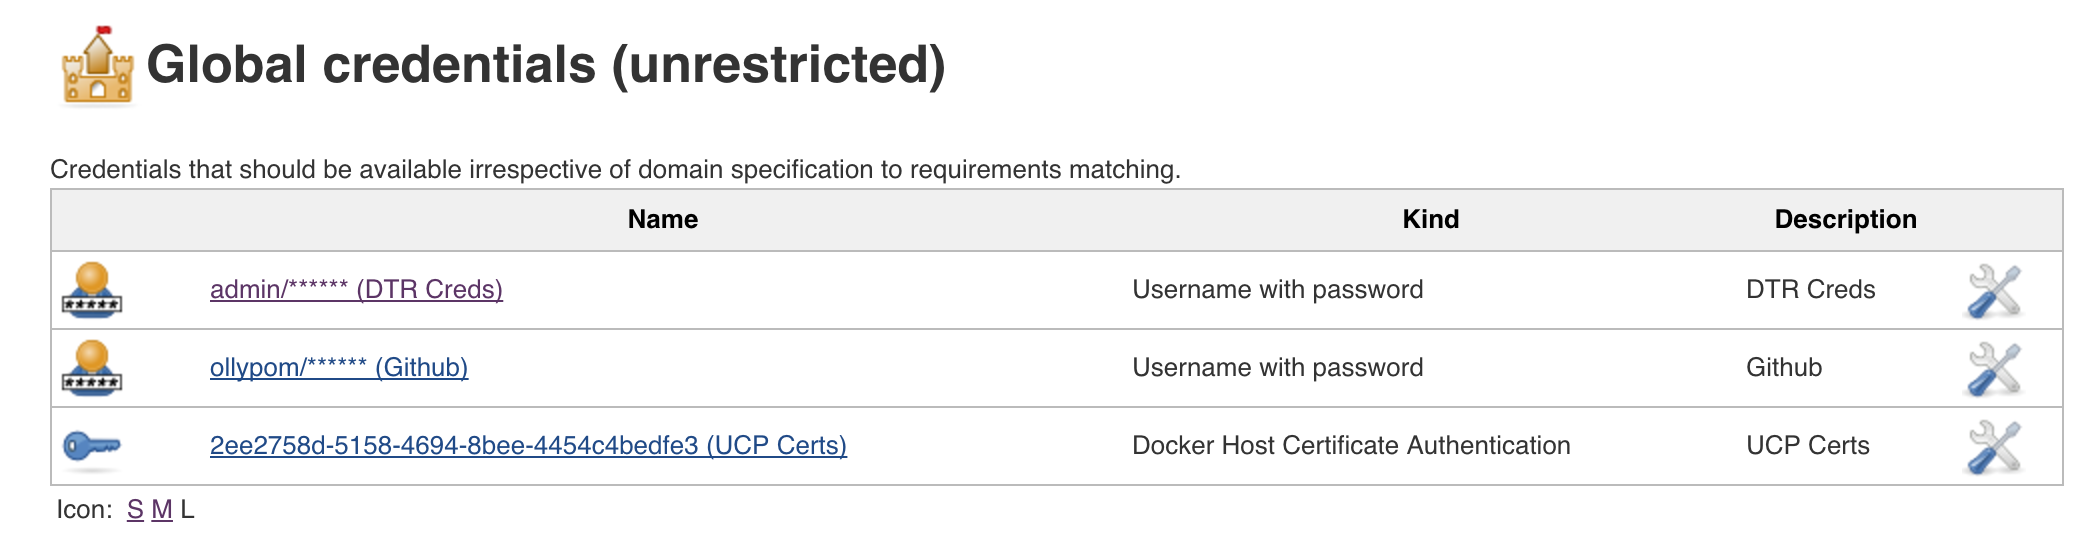
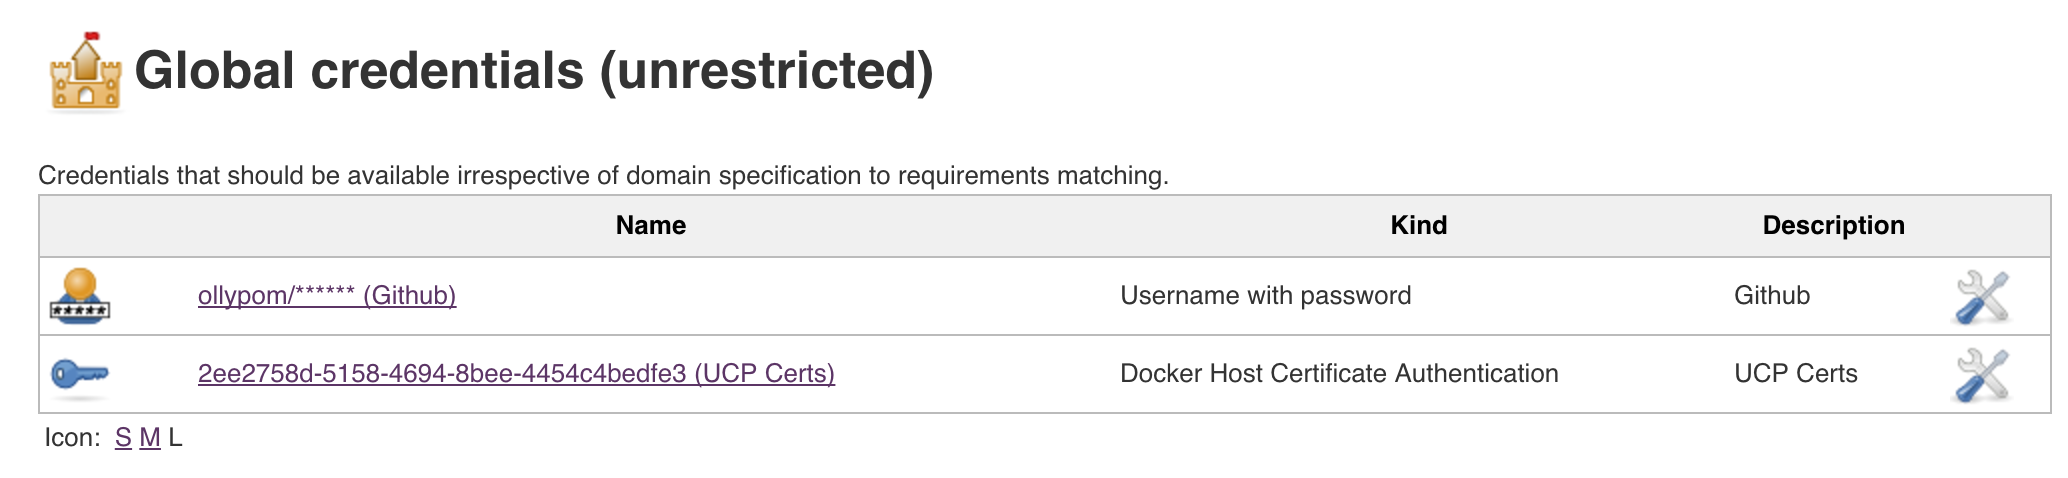
New Readme

diff --git a/README.md b/README.md
@@ -50,7 +50,6 @@ Settings > Webooks > Add the payload URL: http://${DTR}:30000/github-webhook/
 
 In Jenkins go to Credentials > System > Global Credentials (unrestricted)
 
-Create Username / Password for Docker EE DTR
 Create Username / Password for Github
 Create Docker Host Certificate Authentication for Docker UCP
 
@@ -58,11 +57,9 @@ Create Docker Host Certificate Authentication for Docker UCP
 
 ## Jenkins Configuration
 
-Docker Registry Config: 
+Head to Manage Jenkins > System Configuration
 
-![Alt text](/images/Registry.png?raw=true "Jenkins - Registry Config")
-
-Creating Github Creds. Go to Github > Advanced > Additional Actions. And Convert Username / Password to token. This will insert a Personal Access token into Github. As mentioned above. 
+Scroll down to Github > Github Servers. Click on Advanced at the bottom, Additional Actions. And Convert Username / Password to token. This will insert a Personal Access token into Github. As mentioned above. 
 
 ![Alt text](/images/GithubCreds.png?raw=true "Github Token Creation")
 
@@ -70,23 +67,10 @@ Configuring Github. Use your new token as the creds, and untick manage web hooks
 
 ![Alt text](/images/GithubConnection.png?raw=true "Github Connection")
 
-UNSURE IF Required. Enter the Docker EE Reg Credentials on the Pipeline Model Definition.
-
 UNSURE IF REQIURED. Enter your credentials on the Git Plugin.
 
 Create a new Cloud using the Yet another Docker Plugin. And test connectoin :)
 
 ![Alt text](/images/NewCloudConfig.png?raw=true "New Cloud Config")
 
-On the Docker Template. Add your image name. 
-
-On the Docker Create Container settings, we need to give the container persmissions to use Docker in Docker (DIND).
-Under Volumes: /var/run/docker.sock:/var/run/docker.sock and tick the run as privileged container tick box.
-
-Hopefully you are then good to go :)
-
-
-
-
-
-
+### Everything is now good to go for your Jenkins Config. Your now ready to build your Pipeline Jobs :)
